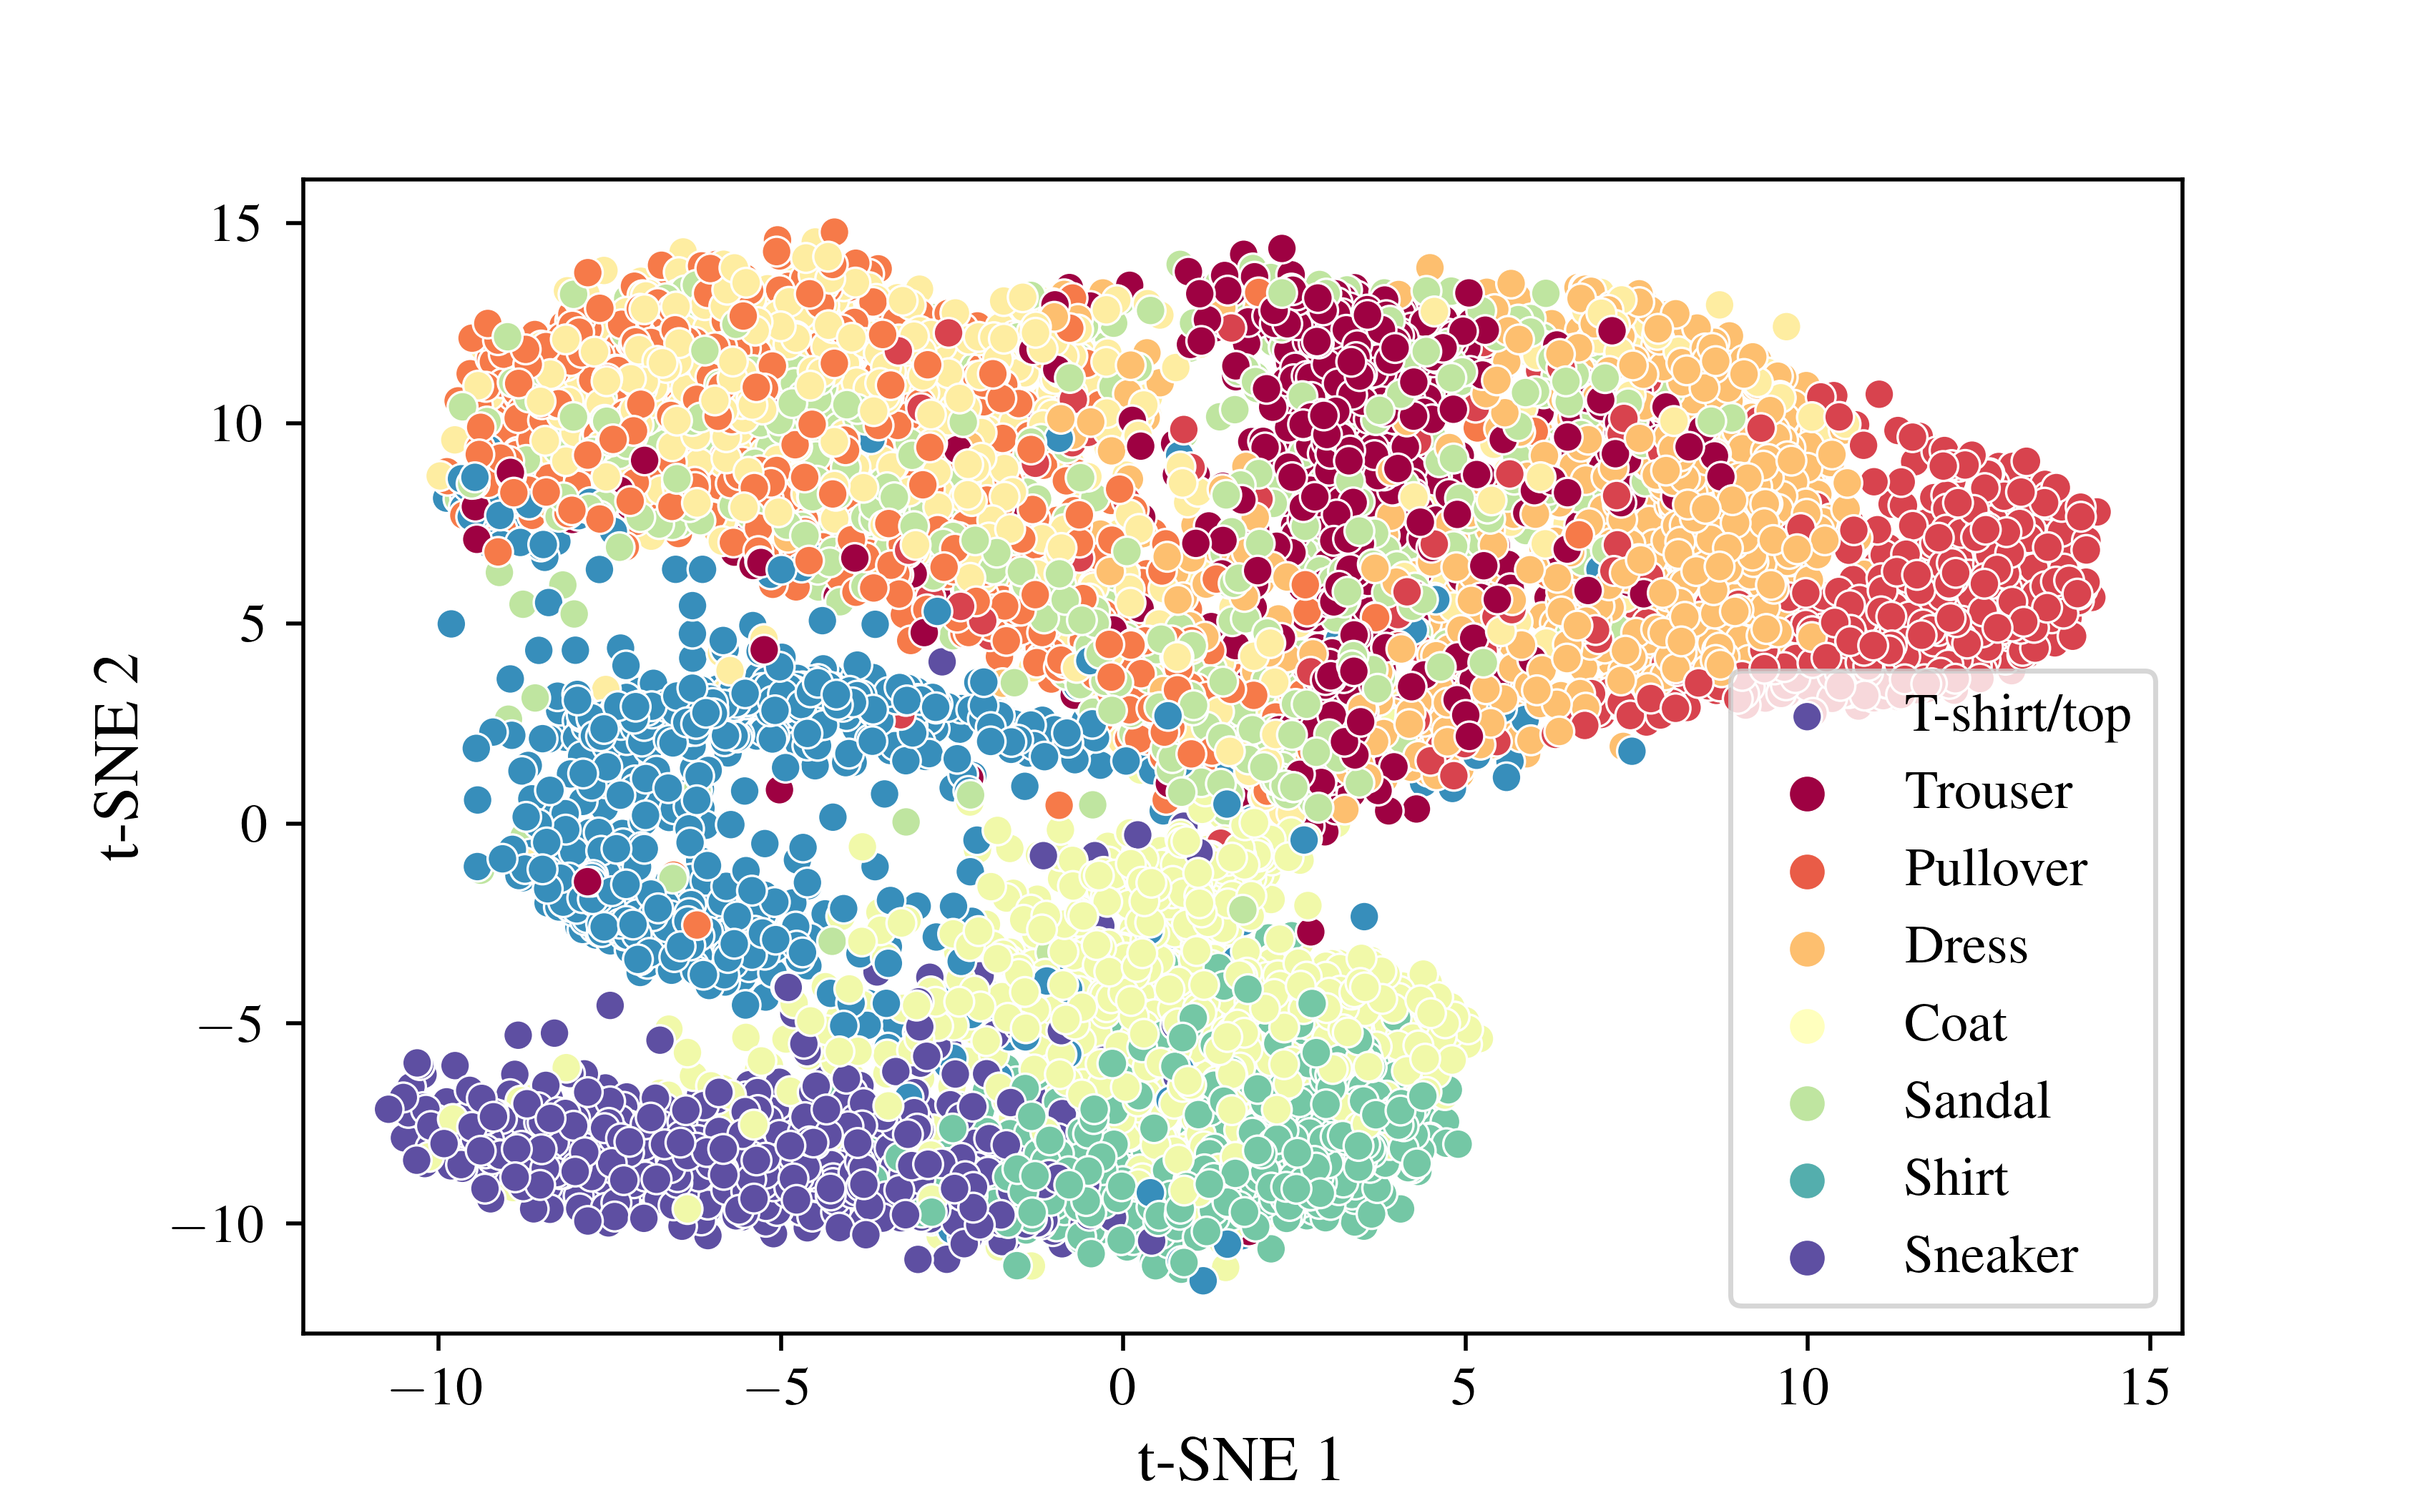
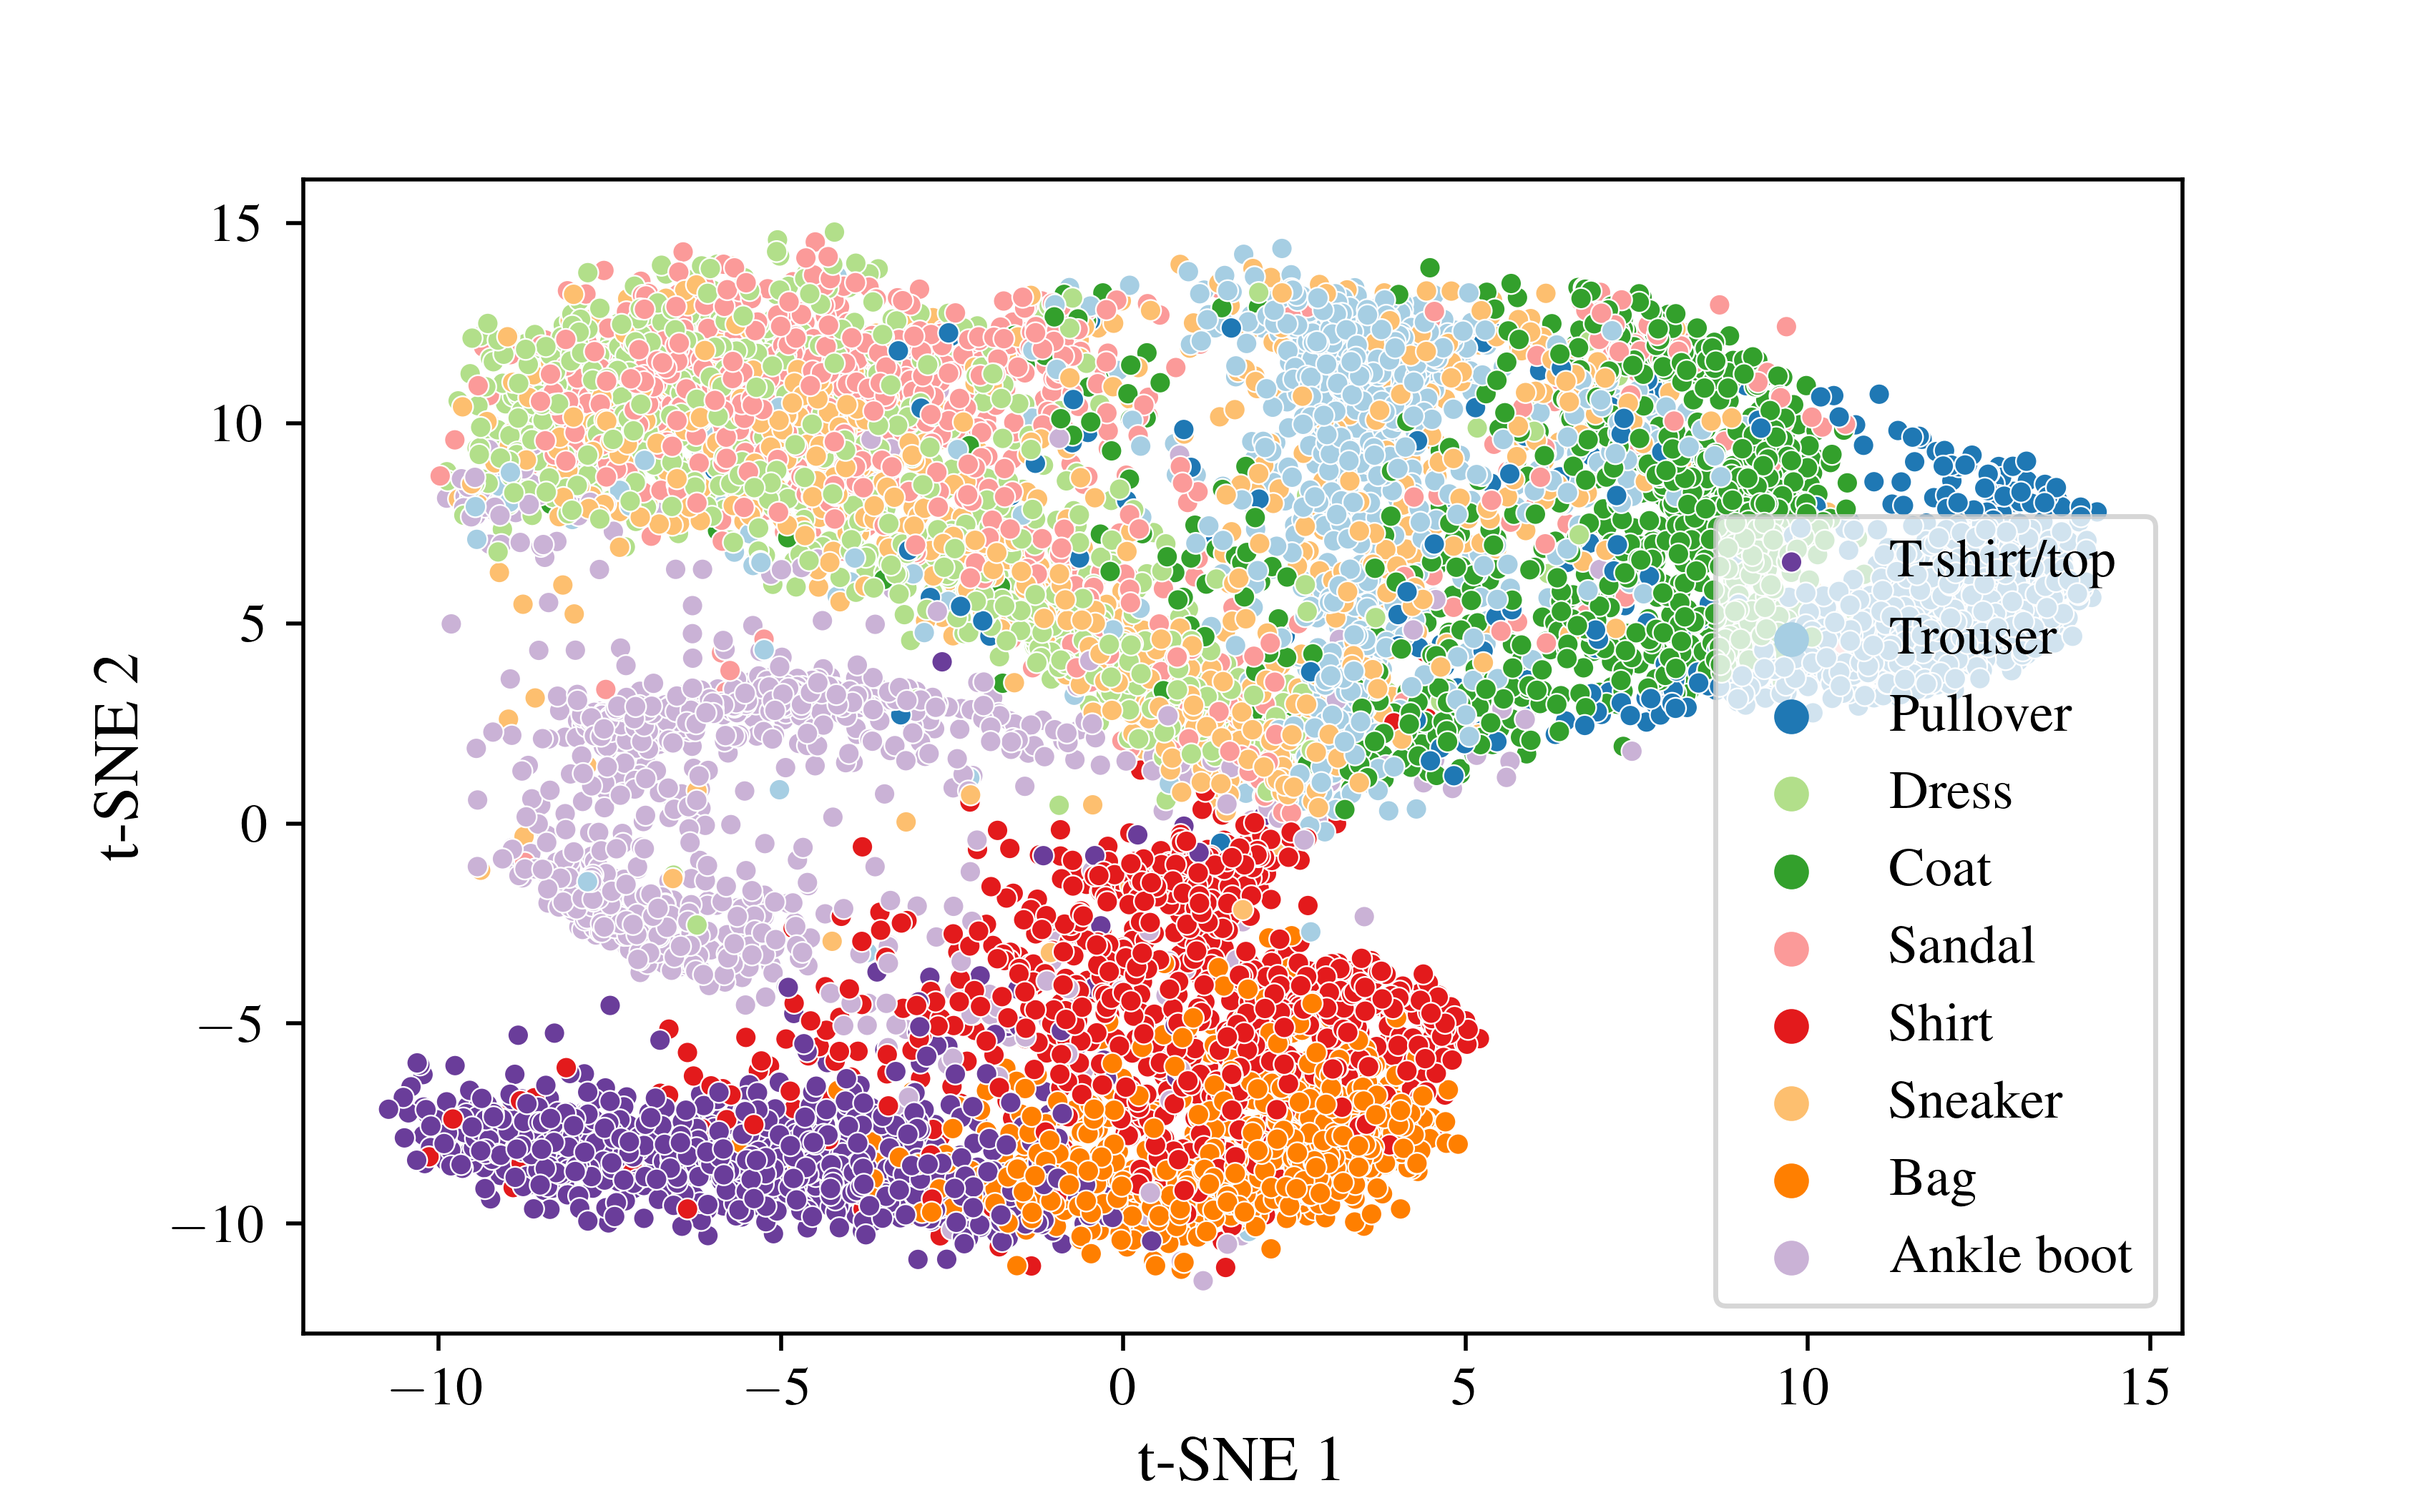
Fixes

Changed region(s): [[0.1549, 0.1551, 0.8982, 0.8687], [0.7124, 0.7757, 0.8673, 0.8687]]

diff --git a/Scripts/neural_tsne.py b/Scripts/neural_tsne.py
@@ -60,16 +60,21 @@ def load_torch_dataset(name: str, step: int, output: str) -> Tuple[Dataset, Data
     train, test = get_datasets.get_dataset(name)
     train = Subset(train, range(0, len(train), step))
 
-    save_torch_labels(name, output, test)
+    save_torch_labels(output, test)
     train_data = torch.stack([row[0] for row in train])
     save_means_and_vars(train_data)
 
     return train, test
 
 
-def save_torch_labels(name: str, output: str, test: Dataset) -> None:
-    with open(output.rsplit("/", maxsplit=1)[0] + "/" + name + "_labels.txt", "w") as f:
-        for row in test:
+def save_torch_labels(output: str, test: Dataset) -> None:
+    with open(
+        output.rsplit(".", maxsplit=1)[0] + "_labels.txt",
+        "w",
+    ) as f:
+        for i, row in tqdm(
+            enumerate(test), unit="samples", total=len(test), desc="Saving labels"
+        ):
             f.writelines(f"{row[1]}\n")
 
 
@@ -333,7 +338,7 @@ class ParametricTSNE:
             DataLoader(
                 test,
                 batch_size=self.batch_size,
-                drop_last=True,
+                drop_last=False,
                 pin_memory=False if self.device == "cpu" else True,
                 num_workers=self.n_jobs if self.device == "cpu" else 0,
             )
@@ -508,7 +513,7 @@ def save_labels_data(
         with open(new_name, "w") as f:
             for i, batch in tqdm(
                 enumerate(test),
-                unit="samples",
+                unit="batches",
                 total=(len(test)),
                 desc="Saving new labels",
             ):

diff --git a/Scripts/plot.py b/Scripts/plot.py
@@ -32,6 +32,7 @@ if __name__ == "__main__":
         "-alpha", type=float, help="Alpha of point", required=False, default=1
     )
     parser.add_argument("-neural_labels", action="store_true", help="Neural labels")
+    parser.add_argument("-marker_size", type=int, help="Marker size", default=15)
 
     args = parser.parse_args()
 
@@ -55,13 +56,13 @@ if __name__ == "__main__":
     plt.scatter(
         data[:: args.step, 0],
         data[:: args.step, 1],
-        15,
+        args.marker_size,
         alpha=args.alpha,
         marker=".",
     ) if labels is None else plt.scatter(
         data[:: args.step, 0],
         data[:: args.step, 1],
-        15,
+        args.marker_size,
         labels[:: step * args.step] if not args.neural_labels else labels[:: args.step],
         alpha=args.alpha,
         marker=".",
@@ -71,5 +72,5 @@ if __name__ == "__main__":
     plt.xlabel("t-SNE 1")
 
     new_name = args.input_file.rsplit(".", 1)[0] + ".png"
-    plt.savefig(new_name, dpi=500)
+    plt.savefig(new_name)
     plt.show()

diff --git a/Scripts/mnist_plot.py b/Scripts/mnist_plot.py
@@ -52,7 +52,7 @@ if __name__ == "__main__":
         labels = np.loadtxt(args.labels)
         args.labels.close()
 
-    if f:
+    if args.f:
         classes = [
             "T-shirt/top",
             "Trouser",
@@ -71,7 +71,7 @@ if __name__ == "__main__":
     fig, ax = plt.subplots(1, 1)
 
     sns.scatterplot(
-        x=data[:, 0], y=data[:, 1], hue=labels[: len(data)], palette="Spectral"
+        x=data[:, 0], y=data[:, 1], hue=labels[: len(data)], palette="Paired"
     )
     plt.xlabel("t-SNE 1")
     plt.ylabel("t-SNE 2")
@@ -79,5 +79,5 @@ if __name__ == "__main__":
 
     new_name = args.input_file.rsplit(".", 1)[0] + ".png"
 
-    plt.savefig(new_name, dpi=500)
+    plt.savefig(new_name)
     plt.show()
